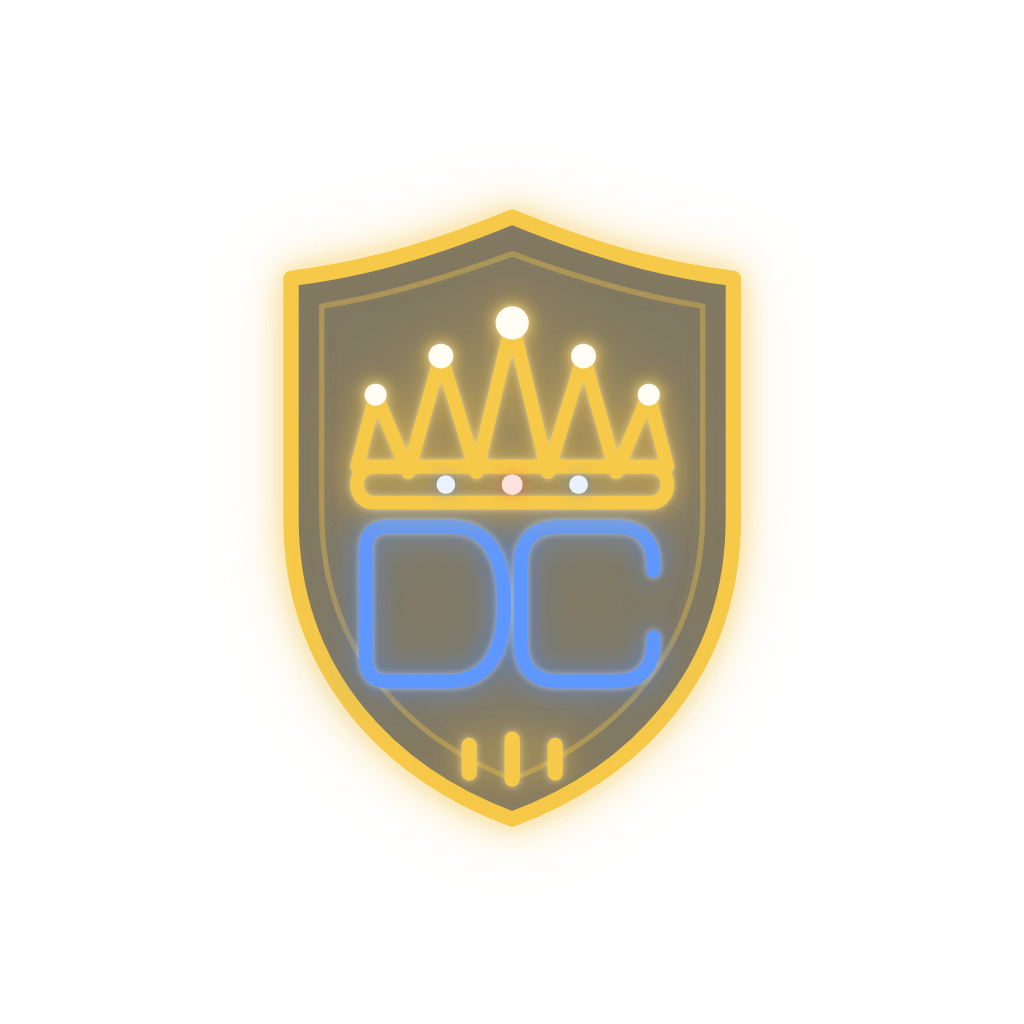
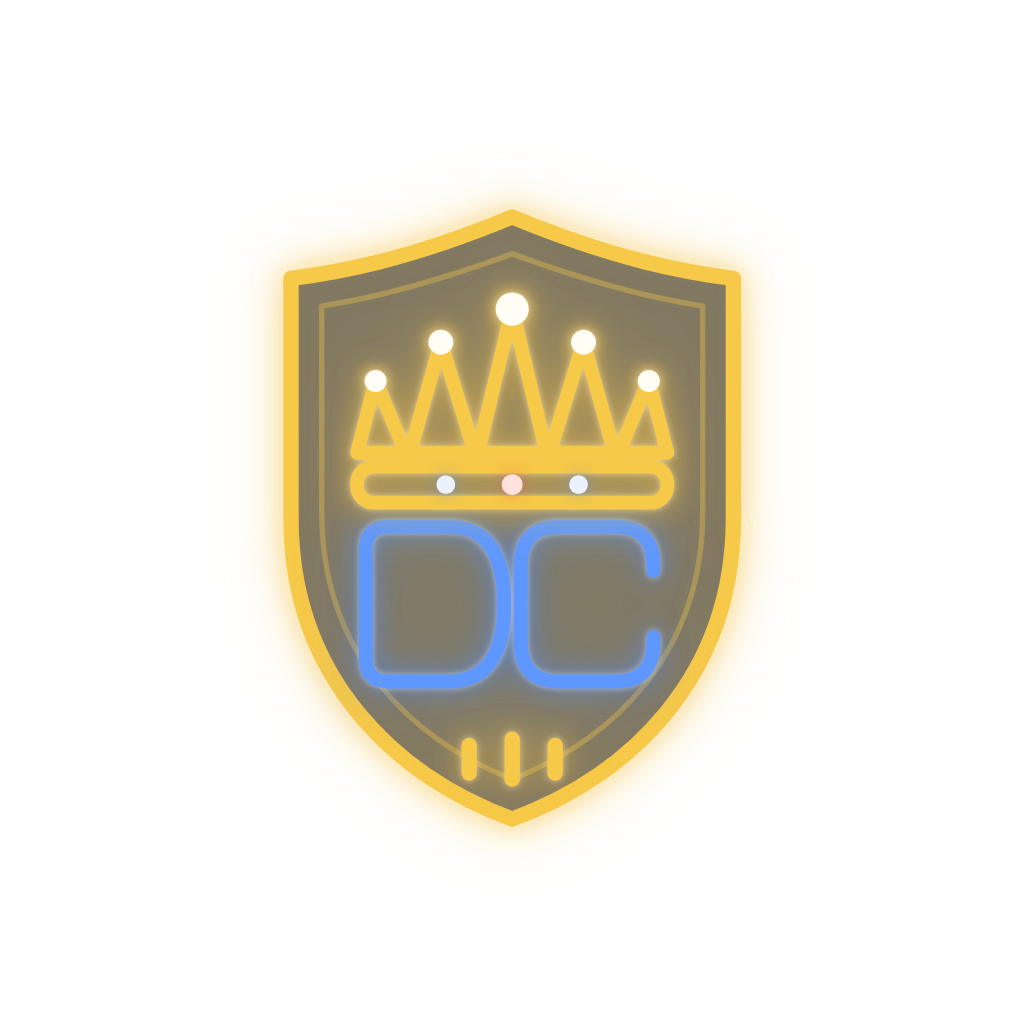
Login + first-run polish: crown geometry, bigger crest, keyboard dismiss, deferred push, welcome modal (#262)
Five related tweaks around the login ceremony and first run.

- Crown geometry: lifted the crest's crown zigzag (peaks + valleys) 5 units up so
  its points clear the band's top edge instead of dipping into it. Applied to
  NeonCrest.js and the icon render, so the app crest and re-rendered app icons
  match.
- Login crest a touch bigger (196 → 216).
- Keyboard dismisses the instant Log in is tapped, so the neon ignition + fly-out
  aren't half-hidden behind it.
- Push-permission prompt no longer fires mid-ceremony. It's held until AFTER the
  home drop-in settles — for a brand-new user, until they dismiss the welcome
  intro; for a returning user, a short beat past the drop-in. The OS modal never
  freezes the animation now.
- First-run welcome modal (shown once, persisted via AsyncStorage): explains the
  app's purpose (multi-league management), that the first load is slow for
  many-league users and why (per-league MFL reads + rate limits, cached after),
  that values come from FantasyCalc, the tap-a-player / watchlist basics, and the
  credentials-stay-yours guarantee. Dual purpose — it also buys load time while
  the leagues fan out behind it.

eslint clean, mobile tests 50/50. Mobile-only — visible on the next EAS build.

Changed region(s): [[0.3438, 0.2812, 0.6562, 0.4688]]

diff --git a/mobile/App.js b/mobile/App.js
@@ -40,6 +40,8 @@ import TrophyCaseScreen from './src/screens/TrophyCaseScreen';
 import DraftListScreen from './src/screens/DraftListScreen';
 import OnDeckScreen from './src/screens/OnDeckScreen';
 import { loadSession, clearSession } from './src/auth';
+import { hasSeenWelcome, markWelcomeSeen } from './src/welcome';
+import WelcomeModal from './src/components/WelcomeModal';
 import { loadDisplayFont, fonts } from './src/typography';
 import PressableScale from './src/components/PressableScale';
 import FieldBackdrop from './src/components/FieldBackdrop';
@@ -77,6 +79,9 @@ export default function App() {
   const [authed, setAuthed] = useState(false);
   const [justLoggedOut, setJustLoggedOut] = useState(false); // drives the login's crest flicker-OUT mirror
   const [demoMode, setDemoMode] = useState(false);
+  const [welcomeSeen, setWelcomeSeen] = useState(null); // null until loaded from storage; drives the first-run intro
+  const [showWelcome, setShowWelcome] = useState(false);
+  const pushArmed = useRef(false); // register-for-push fires once per session, after the ceremony (never mid-animation)
   const [tab, setTab] = useState('home');
   // Overlays form a stack so back returns to the previous screen (e.g. Trades or
   // Draft opened from a roster returns to that roster, not Home).
@@ -158,6 +163,7 @@ export default function App() {
       // Load the display face and the session in parallel; the font load can't hang the
       // splash (it races an internal timeout) and never blocks past ~2s.
       const token = await loadSession();
+      hasSeenWelcome().then(setWelcomeSeen); // gates the first-run intro (and, on first run, defers the push prompt)
       setAuthed(!!token);
       if (token) api.health().then((h) => setDemoMode(!!h.demoMode)).catch(() => {});
       // Don't hold the splash on the display font (~2.2s worst case). Give it a brief head start
@@ -171,11 +177,34 @@ export default function App() {
     })();
   }, []);
 
-  // Register this device for push once authenticated (after login and on a
-  // restored session). Defensive: no-ops if push isn't available/granted.
+  // Register this device for push — but never DURING the login ceremony. The OS permission prompt is a
+  // blocking modal, so firing it the instant we authenticate would freeze the crest ignition + app
+  // drop-in mid-animation. Fire it once per session, AFTER the ceremony settles:
+  //   • returning user  → a short delay past the drop-in, then register (no prompt if already decided).
+  //   • brand-new user  → hold it entirely; the welcome intro's "Enter" arms it, so the very first
+  //                        permission prompt lands only after they've dismissed the intro.
+  const armPush = useCallback(() => {
+    if (pushArmed.current) return;
+    pushArmed.current = true;
+    registerForPush();
+  }, []);
   useEffect(() => {
-    if (authed) registerForPush();
-  }, [authed]);
+    if (!authed || welcomeSeen === null) return undefined;
+    if (welcomeSeen === false) {
+      // First run: surface the intro once the ceremony has settled; push waits for its dismissal.
+      const t = setTimeout(() => setShowWelcome(true), 1300);
+      return () => clearTimeout(t);
+    }
+    const t = setTimeout(armPush, 1400); // returning user: arm after the drop-in
+    return () => clearTimeout(t);
+  }, [authed, welcomeSeen, armPush]);
+
+  const closeWelcome = useCallback(() => {
+    setShowWelcome(false);
+    setWelcomeSeen(true);
+    markWelcomeSeen();
+    armPush(); // now — after they've read the intro — is the moment to ask for notifications
+  }, [armPush]);
 
   // Idle prefetch: once a tab settles, give the screen the user actually opened a head
   // start, then quietly warm the OTHER tabs' caches in the background so switching to
@@ -197,6 +226,7 @@ export default function App() {
       clearResourceCache();
       deviceReadCache.clear(); // device-origin reads hold parsed rosters/etc per account — wipe on auth loss (UX_GUARDRAILS C11)
       deviceEnrichCache.clear(); // cached enrichment carries personal tag/watched — wipe on auth loss (C11)
+      pushArmed.current = false; // re-register for push on the next sign-in
       setAuthed(false);
       setTab('home');
       setOverlayStack([]);
@@ -229,6 +259,7 @@ export default function App() {
       setOverlayStack([]);
       setJustLoggedOut(true); // login mounts with the crest lit, then extinguishes it
       setAuthed(false);
+      pushArmed.current = false; // a fresh sign-in re-registers for push (we just unregistered below)
       drop.setValue(1); // reset so the next fall-in starts clean
       // Wipe session + all per-account caches (UX_GUARDRAILS C11). Fire-and-forget so the logout
       // transition stays instant; unregisterPush needs the still-present session, so it runs first.
@@ -558,6 +589,11 @@ export default function App() {
           them, lets the confetti behind it show. */}
       <ErrorBoundary silent>
         <ToastHost />
+      </ErrorBoundary>
+      {/* First-run intro — shown once, over the app, after the login ceremony settles. Orients a new
+          user and buys time while their leagues fan out behind it. */}
+      <ErrorBoundary silent>
+        <WelcomeModal visible={authed && showWelcome} onClose={closeWelcome} />
       </ErrorBoundary>
     </View>
   );

diff --git a/mobile/src/components/WelcomeModal.js b/mobile/src/components/WelcomeModal.js
@@ -1,0 +1,104 @@
+import React from 'react';
+import { Modal, View, Text, ScrollView, StyleSheet } from 'react-native';
+import { colors } from '../theme';
+import { displayXL, displayLabel } from '../typography';
+import NeonCrest from './NeonCrest';
+import NeonSign from './NeonSign';
+import PressableScale from './PressableScale';
+
+// First-run intro (shown once, after the login ceremony settles). Dual purpose: it orients a brand-new
+// user AND buys time — while they read, the app is fanning out the (slow, first-time) per-league reads
+// behind it, so the Hub is warm by the time they tap Enter.
+const POINTS = [
+  {
+    glyph: 'swap',
+    color: 'accent',
+    title: 'One login, every league',
+    body: 'Manage trades, waivers, lineups, and rosters across all of your MyFantasyLeague dynasty leagues at once — that’s the whole point: multi-league management without logging in league by league.',
+  },
+  {
+    glyph: 'hourglass',
+    color: 'warn',
+    title: 'Loading your leagues now',
+    body: 'In a lot of leagues? The first load takes a moment — we pull live data from MFL for each one, and MFL limits how fast we can read. It’s much quicker after this: everything caches on your device, so reopening is instant.',
+  },
+  {
+    glyph: 'dot',
+    color: 'gold',
+    title: 'Values from FantasyCalc',
+    body: 'Player and pick values are live dynasty-market values from FantasyCalc, so trade grades and portfolio math reflect the real market — not a static list.',
+  },
+  {
+    glyph: 'star',
+    color: 'watch',
+    title: 'Tap a player, anywhere',
+    body: 'Open any player to see how you hold him across every league, his news, and his value. Star ☆ players to track them on your cross-league Watchlist.',
+  },
+  {
+    glyph: 'lock',
+    color: 'cold',
+    title: 'Your credentials stay yours',
+    body: 'Your MFL login goes only to your own backend, which signs in to MFL on your behalf. Your password is never stored.',
+  },
+];
+
+export default function WelcomeModal({ visible, onClose }) {
+  return (
+    <Modal visible={visible} transparent animationType="fade" onRequestClose={onClose}>
+      <View style={styles.scrim}>
+        <View style={styles.card}>
+          <ScrollView contentContainerStyle={styles.scroll} showsVerticalScrollIndicator={false} bounces={false}>
+            <View style={styles.crestWrap}>
+              <NeonCrest size={88} ignited animate={false} />
+            </View>
+            <Text style={[styles.kicker, displayLabel()]}>WELCOME TO</Text>
+            <Text style={[styles.title, displayXL()]}>Dynasty Central</Text>
+            <Text style={styles.sub}>All your dynasties, centralized.</Text>
+
+            <View style={styles.points}>
+              {POINTS.map((p) => (
+                <View key={p.title} style={styles.point}>
+                  <NeonSign glyph={p.glyph} color={p.color} grade="inline" size={18} style={styles.pointIcon} />
+                  <View style={styles.pointText}>
+                    <Text style={styles.pointTitle}>{p.title}</Text>
+                    <Text style={styles.pointBody}>{p.body}</Text>
+                  </View>
+                </View>
+              ))}
+            </View>
+          </ScrollView>
+          <PressableScale style={styles.btn} onPress={onClose}>
+            <Text style={styles.btnText}>Enter</Text>
+          </PressableScale>
+        </View>
+      </View>
+    </Modal>
+  );
+}
+
+const styles = StyleSheet.create({
+  scrim: { flex: 1, backgroundColor: 'rgba(4,7,14,0.82)', alignItems: 'center', justifyContent: 'center', padding: 20 },
+  card: {
+    width: '100%',
+    maxWidth: 440,
+    maxHeight: '88%',
+    backgroundColor: colors.card,
+    borderRadius: 20,
+    borderWidth: 1,
+    borderColor: colors.border,
+    padding: 22,
+  },
+  scroll: { paddingBottom: 6 },
+  crestWrap: { alignItems: 'center', marginBottom: 6 },
+  kicker: { color: colors.textDim, fontSize: 12, fontWeight: '700', letterSpacing: 4, textAlign: 'center', marginLeft: 4 },
+  title: { color: colors.text, fontSize: 30, fontWeight: '900', textAlign: 'center', letterSpacing: -0.5, marginTop: 2 },
+  sub: { color: colors.textDim, fontSize: 14, textAlign: 'center', marginTop: 6, marginBottom: 18 },
+  points: { gap: 16 },
+  point: { flexDirection: 'row', alignItems: 'flex-start', gap: 12 },
+  pointIcon: { marginTop: 2 },
+  pointText: { flex: 1 },
+  pointTitle: { color: colors.text, fontSize: 15, fontWeight: '800', marginBottom: 2 },
+  pointBody: { color: colors.textDim, fontSize: 13, lineHeight: 19 },
+  btn: { backgroundColor: colors.accent, borderRadius: 12, paddingVertical: 14, alignItems: 'center', marginTop: 18 },
+  btnText: { color: '#fff', fontSize: 16, fontWeight: '800', letterSpacing: 0.3 },
+});

diff --git a/mobile/src/components/NeonCrest.js b/mobile/src/components/NeonCrest.js
@@ -29,9 +29,11 @@ const P = {
   hair: 'M100 26 C70 37 51 41 38 43 L38 110 C38 156 67 184 100 197 C133 184 162 156 162 110 L162 43 C149 41 130 37 100 26 Z',
   d: 'M58 116 L80 116 Q100 116 100 144 Q100 172 80 172 L58 172 Q50 172 50 164 L50 124 Q50 116 58 116 Z',
   c: 'M154 132 L154 130 Q154 116 140 116 L120 116 Q106 116 106 130 L106 158 Q106 172 120 172 L140 172 Q154 172 154 158 L154 156',
-  crown: 'M46.8 94.3 L53.5 68.3 L65.3 96.3 L77.1 54.3 L90 96.3 L102.9 42.3 L115.8 96.3 L128.7 54.3 L140.5 96.3 L152.3 68.3 L159 94.3 Z',
+  // Crown zigzag lifted 5 up (was …94.3/96.3 valleys) so its points clear the band's top edge (y=94.3)
+  // instead of dipping into it.
+  crown: 'M46.8 89.3 L53.5 63.3 L65.3 91.3 L77.1 49.3 L90 91.3 L102.9 37.3 L115.8 91.3 L128.7 49.3 L140.5 91.3 L152.3 63.3 L159 89.3 Z',
 };
-const FINIALS = [[53.5, 68.3, 4], [77.1, 54.3, 4.5], [102.9, 42.3, 6], [128.7, 54.3, 4.5], [152.3, 68.3, 4]];
+const FINIALS = [[53.5, 63.3, 4], [77.1, 49.3, 4.5], [102.9, 37.3, 6], [128.7, 49.3, 4.5], [152.3, 63.3, 4]];
 const GEMS = [[78.9, 100.8, 3.4, 'blue'], [102.9, 100.8, 3.8, 'red'], [126.9, 100.8, 3.4, 'blue']];
 const HASH = [[86, 186, 86, 195], [100, 184, 100, 197], [114, 186, 114, 195]];
 

diff --git a/mobile/src/screens/LoginScreen.js b/mobile/src/screens/LoginScreen.js
@@ -6,6 +6,7 @@ import {
   StyleSheet,
   ActivityIndicator,
   KeyboardAvoidingView,
+  Keyboard,
   Platform,
   Animated,
   Easing,
@@ -62,6 +63,9 @@ export default function LoginScreen({ onLoggedIn, justLoggedOut = false }) {
   const rule = { transform: [{ scaleX: intro }] };
 
   async function submit() {
+    // Drop the keyboard first so it slides away before the ceremony — the neon crest ignition + fly-out
+    // are fully visible instead of half-hidden behind the keyboard.
+    Keyboard.dismiss();
     setBusy(true);
     setError(null);
     try {
@@ -85,7 +89,7 @@ export default function LoginScreen({ onLoggedIn, justLoggedOut = false }) {
       <FieldBackdrop hero watermark={false} />
       <View style={styles.inner}>
         <Animated.View style={[styles.lockup, fade, pop]}>
-          <NeonCrest size={196} ignited={ignited} />
+          <NeonCrest size={216} ignited={ignited} />
         </Animated.View>
 
         <Animated.View style={[fade, rise]}>

diff --git a/mobile/src/welcome.js b/mobile/src/welcome.js
@@ -1,0 +1,22 @@
+import AsyncStorage from '@react-native-async-storage/async-storage';
+
+// One-time "first run" flag for the welcome modal (device-level — once you've seen the intro, it stays
+// gone). Non-sensitive, so plain AsyncStorage (not SecureStore). Best-effort: any storage error just
+// means the intro might show again, never a crash.
+const KEY = 'dc_welcome_seen_v1';
+
+export async function hasSeenWelcome() {
+  try {
+    return (await AsyncStorage.getItem(KEY)) === '1';
+  } catch (e) {
+    return false;
+  }
+}
+
+export async function markWelcomeSeen() {
+  try {
+    await AsyncStorage.setItem(KEY, '1');
+  } catch (e) {
+    /* non-fatal — worst case the intro shows again next launch */
+  }
+}
